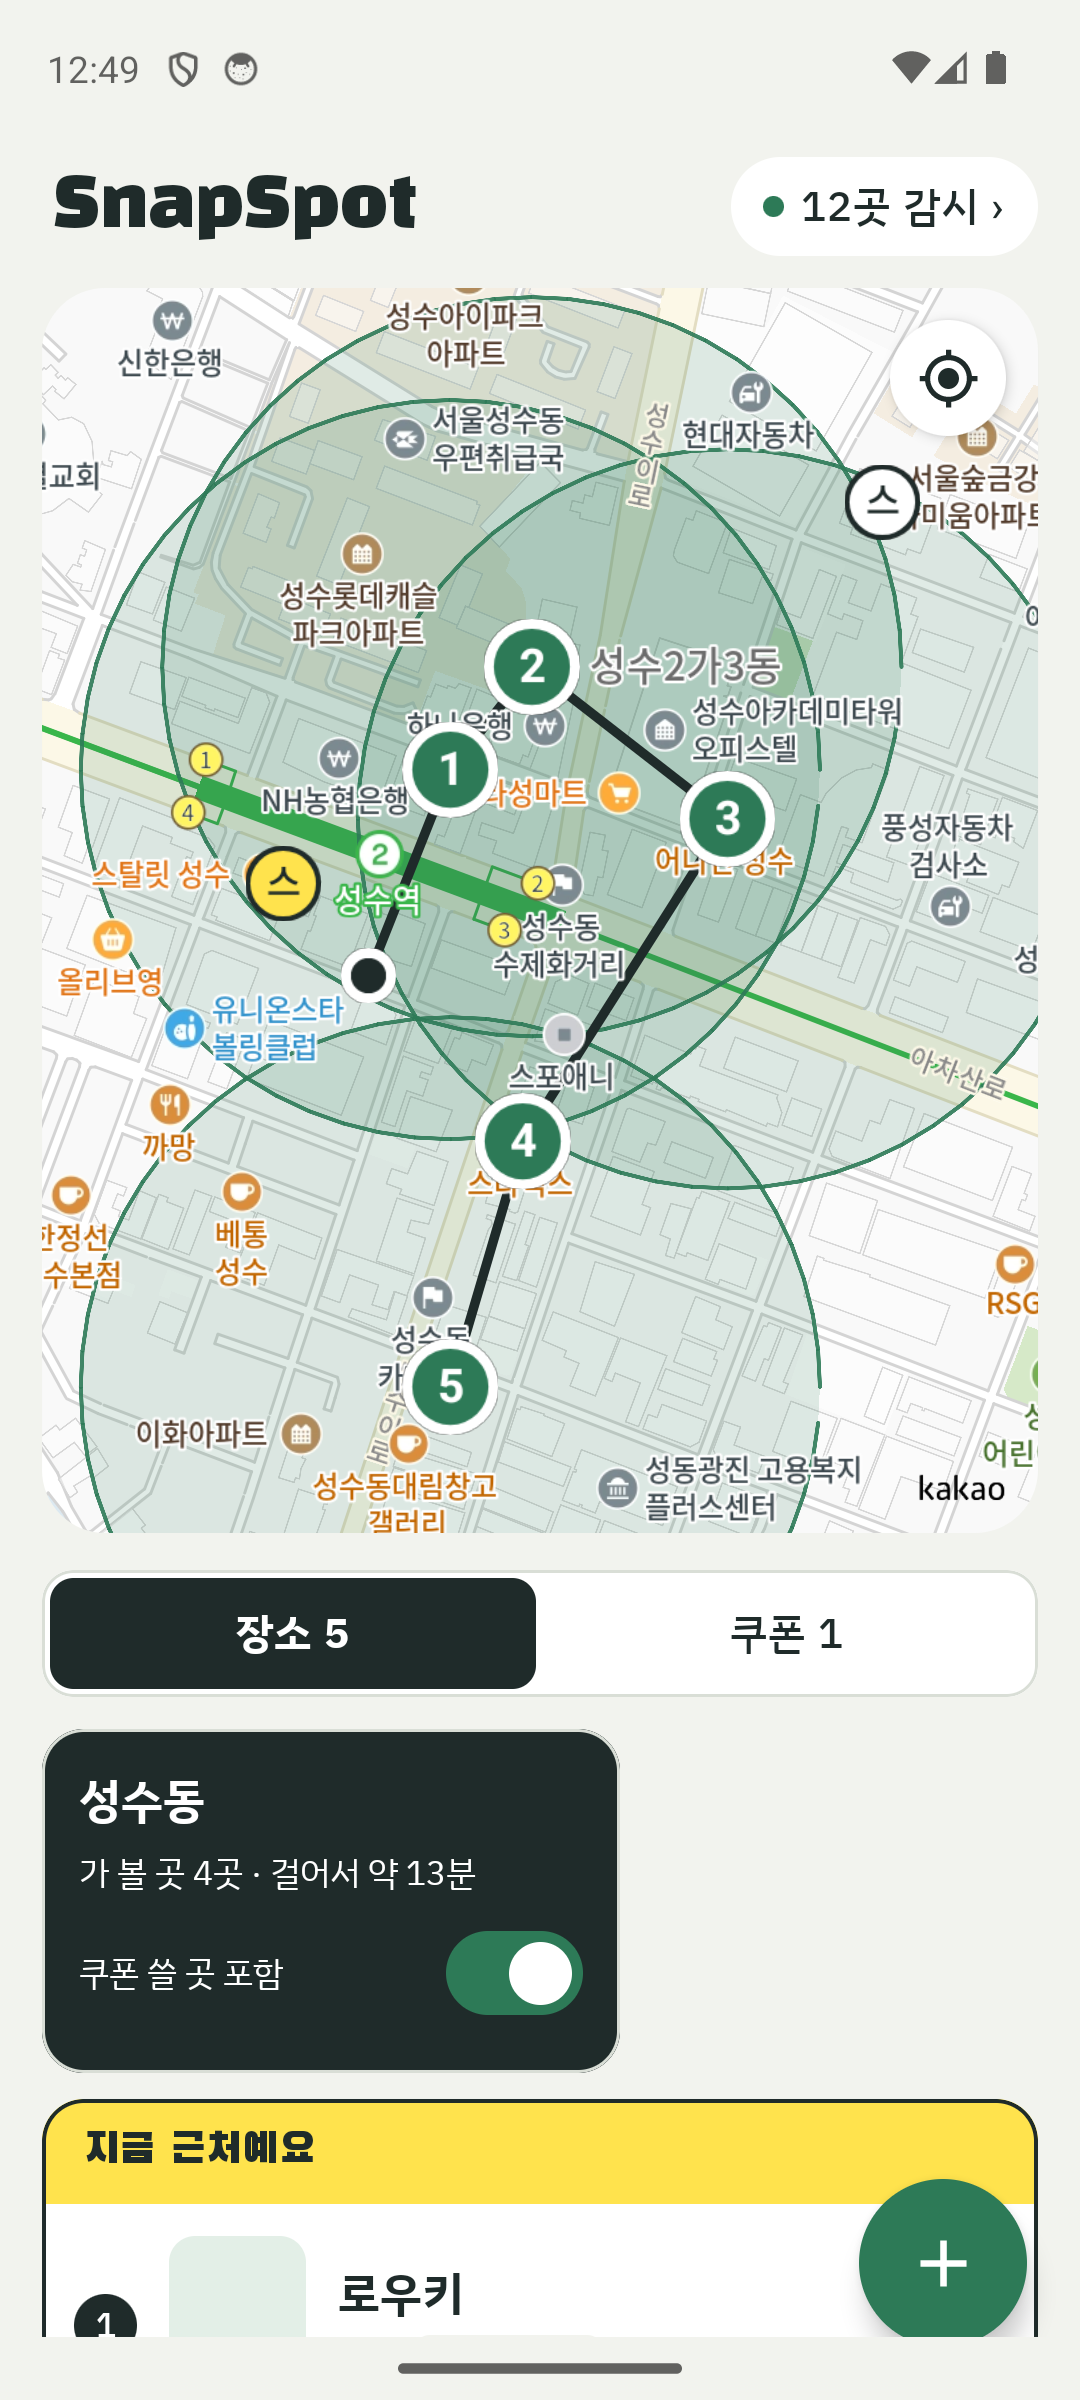
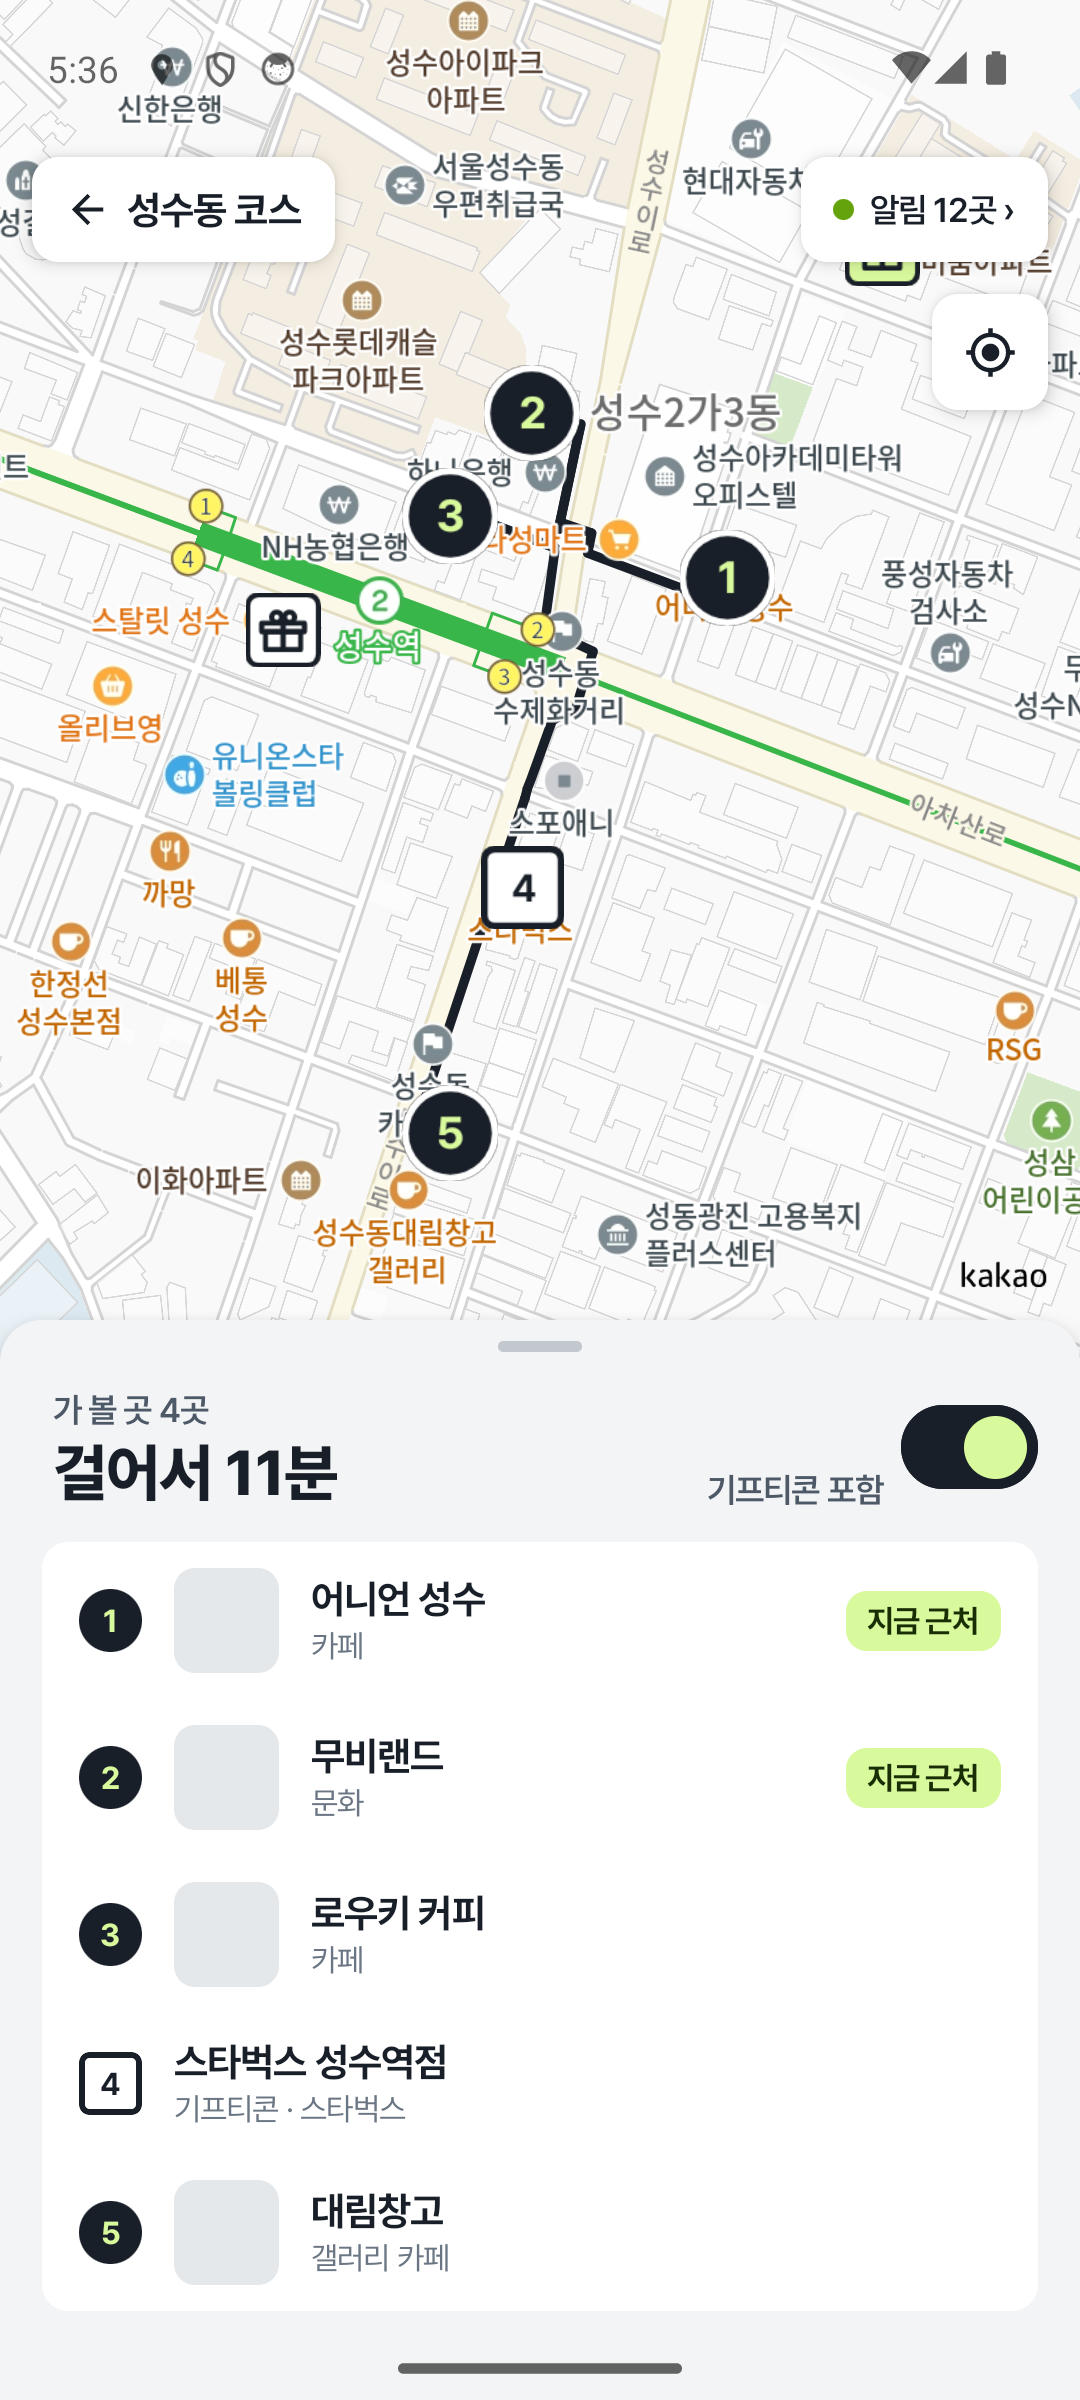
screenshots: new design from the emulator; alert preview uses the nearest branch

diff --git a/app/src/main/java/com/capstone/snapspot/ui/home/HomeViewModel.kt b/app/src/main/java/com/capstone/snapspot/ui/home/HomeViewModel.kt
@@ -306,7 +306,11 @@ class HomeViewModel(app: Application) : AndroidViewModel(app) {
     /** Shows the alert a branch would send, using the nearest registered branch of this brand. */
     fun testCoupon(cp: Coupon) = viewModelScope.launch {
         val key = brandKey(cp.brand)
-        val id = window.value?.branches?.keys?.firstOrNull { it.startsWith("b|$key|") } ?: "b|$key|test"
+        // The nearest registered branch, like the alert the user would get walking by.
+        val at = here.value
+        val id = window.value?.branches?.filter { it.key.startsWith("b|$key|") }
+            ?.minByOrNull { (_, b) -> at?.let { distanceMeters(it, Coords(b.latitude, b.longitude)) } ?: 0.0 }?.key
+            ?: "b|$key|test"
         c.alerts.onBranchEnter(id, force = true)
     }
 

diff --git a/README.md b/README.md
@@ -10,13 +10,13 @@
 두 경우 모두 **앱이 꺼져 있어도** 동작해요.
 
 <p>
-  <img src="docs/screenshots/home.png" width="180" alt="홈. 둥근 지도 카드에 성수역 주변 스타벅스 지점 배지가 보이고, 200m 안의 지점은 노랗게 표시된다. 아래 기프티콘 탭에 '지금 근처: 스타벅스 성수점' 띠와 D-79가 붙은 기프티콘 카드" />
-  <img src="docs/screenshots/coupon-add.png" width="180" alt="새 기프티콘 확인. 브랜드 스타벅스, 혜택, 유효기간과 근처 지점 미리보기" />
-  <img src="docs/screenshots/coupon-open.png" width="180" alt="알림을 눌러 연 기프티콘. 바코드가 보이도록 기프티콘 이미지를 크게 띄우고 아래에 '사용했어요' 버튼" />
-  <img src="docs/screenshots/status.png" width="180" alt="알림 현황. 90칸 중 스타벅스 지점 7칸, 갱신 구역 1칸, 빈 칸 82칸" />
+  <img src="docs/screenshots/home.png" width="180" alt="홈. 화면 전체 지도에 저장한 장소 핀과 알림 반경 원, 선물 상자 모양의 스타벅스 지점 핀. 아래 시트에 '근처에 가 볼 곳이 2곳 있어요', 성수동 코스 카드, 라임색 '지금 근처' 표시가 붙은 장소 목록" />
+  <img src="docs/screenshots/coupon-add.png" width="180" alt="새 기프티콘 확인. '기프티콘에서 찾았어요 · 스타벅스', 브랜드·받을 수 있는 것·유효기간 칸과 '근처 스타벅스에 가면 알려 드려요' 안내" />
+  <img src="docs/screenshots/coupon-open.png" width="180" alt="기프티콘 화면. 위에 라임색 '지금 근처 · 스타벅스 스탈릿성수N점 197m', 바코드가 보이도록 기프티콘 이미지를 크게 띄우고 아래에 '사용했어요' 버튼" />
+  <img src="docs/screenshots/status.png" width="180" alt="알림 현황. '알림 장소 12곳', 90칸 중 13칸 사용(저장한 장소 5칸, 스타벅스 지점 7칸, 갱신 구역 1칸)과 등록된 곳을 보여 주는 지도" />
 </p>
 <p>
-  <img src="docs/screenshots/coupon-alert.png" width="370" alt="알림 '스타벅스 성수점 근처예요 · 스타벅스 카페 아메리카노 Tall · 12월 31일까지'" />
+  <img src="docs/screenshots/coupon-alert.png" width="370" alt="알림 '스타벅스 스탈릿성수N점 근처예요 · 스타벅스 카페 아메리카노 Tall · 12월 31일까지'" />
 </p>
 
 ## 핵심 문제: 휴대폰은 90곳까지만 알림을 걸 수 있어요
@@ -181,8 +181,8 @@
 - **동선 길이**: Held-Karp는 정답이라 늘 가장 짧아요(0%). 2-opt·Or-opt는 정답보다 몇 % 길 수 있어요.
 - 그래서 기준은 "어느 쪽이 빠른가"가 아니라 **"정답을 한도 안에 낼 수 있는가"**예요. Held-Karp가 한도에 닿는 12~13곳보다 한 칸 여유를 두고 11곳까지 Held-Karp를 쓰고, 12곳부터 2-opt·Or-opt로 바꿔요.
 <p>
-  <img src="docs/screenshots/bundle-route.png" width="180" alt="성수동 묶음을 펼친 홈. 내 위치에서 1~4번 장소를 잇는 동선과 번호 핀" />
-  <img src="docs/screenshots/bundle-coupon.png" width="180" alt="기프티콘 포함을 켠 동선. 3번과 5번 사이 동선 위의 스타벅스 지점이 4번으로 들어감" />
+  <img src="docs/screenshots/bundle-route.png" width="180" alt="성수동 코스를 연 화면. 알림 반경 원은 숨기고, 1~4번 장소를 실제 걷는 길로 잇는 동선과 '걸어서 11분'" />
+  <img src="docs/screenshots/bundle-coupon.png" width="180" alt="기프티콘 포함을 켠 동선. 3번과 5번 사이 동선 위의 스타벅스 성수역점이 흰 네모 4번으로 들어감" />
 </p>
 
 ## 브랜드 지점 찾기
